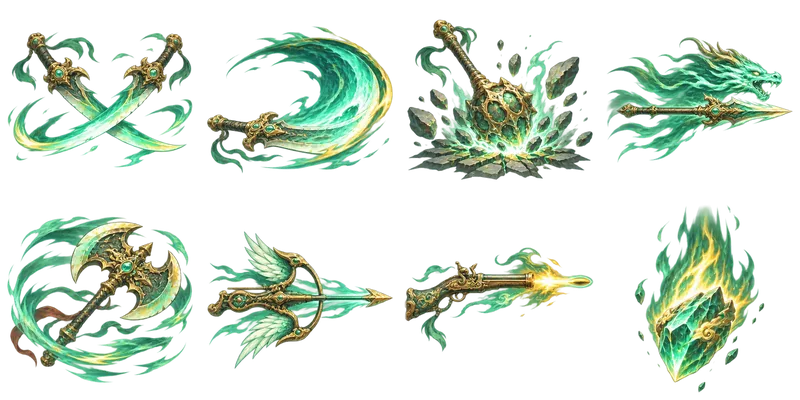
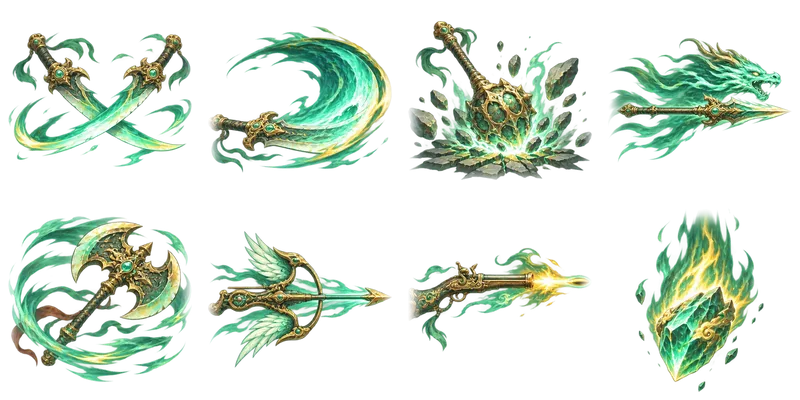
Feather cropped weapon effect edges and add transparent padding

diff --git a/public/game.html b/public/game.html
@@ -443,7 +443,7 @@ html,body{height:100%;background:#1c1830;overflow:hidden;font-family:'Jua',syste
 </div>
 <script>if(!localStorage.getItem("xp_token"))location.replace("index.html")</script>
 <script src="net.js?v=23"></script>
-<script src="weapon-skill-fx.js?v=2"></script>
+<script src="weapon-skill-fx.js?v=3"></script>
 <script src="reward-fx.js?v=1"></script>
 <script>
 'use strict';
@@ -2339,7 +2339,7 @@ function draw(){queueMicrotask(()=>refreshRewardNotices(true));const B=$('mbody'
    B.innerHTML=`<div style="position:relative;text-align:center;margin:2px 0 8px">${U('rank_banner')?`<div class="ts" style="${bg('rank_banner')}padding:10px 0 18px;font-size:20px;color:#fff">${t==='pow'?'전투력 랭킹':'도전의 탑 랭킹'}</div>`:''}</div><div class="feature-head ts" style="${bg('rank_row')}${U('rank_row')?'padding:10px 18px;color:#fff;':''}">${featureImage('rank')}<div><b style="color:#ffe066">${U('rank_banner')?'내 순위':(t==='pow'?'전투력 랭킹':'도전의 탑 랭킹')}</b><small style="color:#fff">${L.my?L.my.rank+'위 · '+fv(L.my.v):'아직 기록이 없어요'}</small></div></div>`+(L.list.length?L.list.map((r,i)=>row(r,i,r.me)).join(''):'<div class="note">아직 기록이 없어요</div>')}}
  else if(panel==='market'){$('mtitle').textContent='거래소';cur(['gem','gold']);B.innerHTML=marketPanel();F.innerHTML='<div class="tabs">'+[['buy','구매'],['sell','판매'],['mine','내 등록']].map(([k,n])=>'<button class="tab '+(MK.tab===k?'on':'')+'" data-a="mkt:'+k+'">'+n+'</button>').join('')+'</div>'}
  else if(panel==='menu'){$('mtitle').textContent='메뉴';$('mcur').innerHTML='';
-  B.innerHTML='<div class="feature-shortcuts"><button data-a="collection">'+featureImage('book')+'도감</button><button data-a="tasks:daily">'+featureImage('missions')+'일일 활동</button><button data-a="tasks:weekly">'+featureImage('weekly')+'주간 활동</button><button data-a="market">'+featureImage('market')+'거래소</button><button data-a="rank">'+featureImage('rank')+'랭킹</button></div>'+(window.IS_ADMIN?'':'<!--')+`<div class="row" style="border-color:#ffd23c"><div class="rin"><h4>🛠 관리자 모드 ${S.admin?'<b style="color:#7be36a">켜짐</b>':''}</h4><p>재화 무한 · 모든 무기 · 영웅 · 레벨 · 지역 테스트용</p></div><button class="btn eq" data-a="goadmin">열기</button></div>`+(window.IS_ADMIN?'':'-->')+`<div class="row"><div class="rin"><h4>계정</h4><p>${window.NET?NET.nick:''} · 저장하고 로그인 화면으로</p></div><button class="btn no" data-a="logout" style="min-width:76px">로그아웃</button></div><div class="row"><div class="rin"><h4>닉네임 변경</h4><p>한글·영어·숫자 2~8자 · 다른 사람과 겹칠 수 없어요</p><input id="nickin" maxlength="8" value="${window.NET?NET.nick:''}" style="margin-top:6px;width:100%;font:inherit;font-size:16px;padding:7px 10px;border-radius:10px;border:2px solid #1c1830"></div><button class="btn" data-a="nickset" style="min-width:64px">변경</button></div><div class="row"><div class="rin"><h4>소리</h4><p>효과음 · 배경 소리(바람·물·불·파도)</p></div><button class="btn ${window.SFX&&SFX.on.sfx?'':'no'}" data-a="snd:sfx" style="min-width:64px">효과음 ${window.SFX&&SFX.on.sfx?'켜짐':'꺼짐'}</button><button class="btn ${window.SFX&&SFX.on.amb?'':'no'}" data-a="snd:amb" style="min-width:64px">배경 ${window.SFX&&SFX.on.amb?'켜짐':'꺼짐'}</button></div><div class="row"><div class="rin"><h4>모루 한 번에 만들기</h4><p>모루 버튼을 한 번 누를 때 만드는 개수</p></div>${[1,5,10].map(n=>`<button class="btn ${(S.cn||1)===n?'':'eq'}" data-a="cn:${n}" style="min-width:44px;padding:6px 4px 9px">${n}개</button>`).join('')}</div>`+(window.IS_ADMIN?`<div class="row"><div class="rin"><h4>이미지 넣기</h4><p>캐릭터·몬스터·버튼·아이콘 등 모든 그림을 내 이미지로 바꾸기</p></div><button class="btn eq" data-a="goassets">열기</button></div>`:'')+`<div class="note" style="color:#ffd23c">버전 1119-2050</div><div class="note">진행 상황은 서버에 자동 저장돼요.<br>이동: 화면을 누른 채 끌기 (PC는 WASD)<br>공격: 몬스터 가까이 가면 자동<br>가방 속 물건은 기지에 돌아오면 입금돼요.<br>금화·크리스탈·보석·오브 모두 가방에 담겨요. 가득 차면 더 주울 수 없어요.</div>`+(window.IS_ADMIN?`<div class="row"><div class="rin"><h4>처음부터 다시</h4><p>모든 진행 상황을 지웁니다.</p></div><button class="btn no" data-a="reset">${resetArm?'한 번 더 누르기':'초기화'}</button></div>`:'')}}
+  B.innerHTML='<div class="feature-shortcuts"><button data-a="collection">'+featureImage('book')+'도감</button><button data-a="tasks:daily">'+featureImage('missions')+'일일 활동</button><button data-a="tasks:weekly">'+featureImage('weekly')+'주간 활동</button><button data-a="market">'+featureImage('market')+'거래소</button><button data-a="rank">'+featureImage('rank')+'랭킹</button></div>'+(window.IS_ADMIN?'':'<!--')+`<div class="row" style="border-color:#ffd23c"><div class="rin"><h4>🛠 관리자 모드 ${S.admin?'<b style="color:#7be36a">켜짐</b>':''}</h4><p>재화 무한 · 모든 무기 · 영웅 · 레벨 · 지역 테스트용</p></div><button class="btn eq" data-a="goadmin">열기</button></div>`+(window.IS_ADMIN?'':'-->')+`<div class="row"><div class="rin"><h4>계정</h4><p>${window.NET?NET.nick:''} · 저장하고 로그인 화면으로</p></div><button class="btn no" data-a="logout" style="min-width:76px">로그아웃</button></div><div class="row"><div class="rin"><h4>닉네임 변경</h4><p>한글·영어·숫자 2~8자 · 다른 사람과 겹칠 수 없어요</p><input id="nickin" maxlength="8" value="${window.NET?NET.nick:''}" style="margin-top:6px;width:100%;font:inherit;font-size:16px;padding:7px 10px;border-radius:10px;border:2px solid #1c1830"></div><button class="btn" data-a="nickset" style="min-width:64px">변경</button></div><div class="row"><div class="rin"><h4>소리</h4><p>효과음 · 배경 소리(바람·물·불·파도)</p></div><button class="btn ${window.SFX&&SFX.on.sfx?'':'no'}" data-a="snd:sfx" style="min-width:64px">효과음 ${window.SFX&&SFX.on.sfx?'켜짐':'꺼짐'}</button><button class="btn ${window.SFX&&SFX.on.amb?'':'no'}" data-a="snd:amb" style="min-width:64px">배경 ${window.SFX&&SFX.on.amb?'켜짐':'꺼짐'}</button></div><div class="row"><div class="rin"><h4>모루 한 번에 만들기</h4><p>모루 버튼을 한 번 누를 때 만드는 개수</p></div>${[1,5,10].map(n=>`<button class="btn ${(S.cn||1)===n?'':'eq'}" data-a="cn:${n}" style="min-width:44px;padding:6px 4px 9px">${n}개</button>`).join('')}</div>`+(window.IS_ADMIN?`<div class="row"><div class="rin"><h4>이미지 넣기</h4><p>캐릭터·몬스터·버튼·아이콘 등 모든 그림을 내 이미지로 바꾸기</p></div><button class="btn eq" data-a="goassets">열기</button></div>`:'')+`<div class="note" style="color:#ffd23c">버전 1119-2051</div><div class="note">진행 상황은 서버에 자동 저장돼요.<br>이동: 화면을 누른 채 끌기 (PC는 WASD)<br>공격: 몬스터 가까이 가면 자동<br>가방 속 물건은 기지에 돌아오면 입금돼요.<br>금화·크리스탈·보석·오브 모두 가방에 담겨요. 가득 차면 더 주울 수 없어요.</div>`+(window.IS_ADMIN?`<div class="row"><div class="rin"><h4>처음부터 다시</h4><p>모든 진행 상황을 지웁니다.</p></div><button class="btn no" data-a="reset">${resetArm?'한 번 더 누르기':'초기화'}</button></div>`:'')}}
 function act(a){const[k,v]=a.split(':');if(k==='gochap'){goChapter(+v);return}
  if(k==='nickset'){const n=(document.getElementById('nickin')||{}).value?.trim()||'';fetch('/api/nick',{method:'POST',headers:{'Content-Type':'application/json'},body:JSON.stringify({token:localStorage.getItem('xp_token'),nick:n})}).then(r=>r.json().then(j=>[r.ok,j])).then(([ok,j])=>{if(!ok){toast(j.err||'변경 실패');return}localStorage.setItem('xp_nick',j.nick);if(window.NET)NET.nick=j.nick;toast('닉네임이 '+j.nick+'(으)로 바뀌었어요');draw()}).catch(()=>toast('서버에 연결할 수 없어요'));return}
  if(k==='challengeTower'){window.TOWER?.open();return}

diff --git a/public/weapon-skill-fx.js b/public/weapon-skill-fx.js
@@ -91,7 +91,7 @@ window.WeaponSkillFX = (() => {
   const atlases = {};
   for (const grade of [5,6]) for (const kind of ['skill','third']) {
     const image = new Image();
-    image.src = `assets/weapon_${kind}_${grade}.webp`;
+    image.src = `assets/weapon_${kind}_${grade}.webp?v=2`;
     atlases[grade + kind] = image;
   }
 
